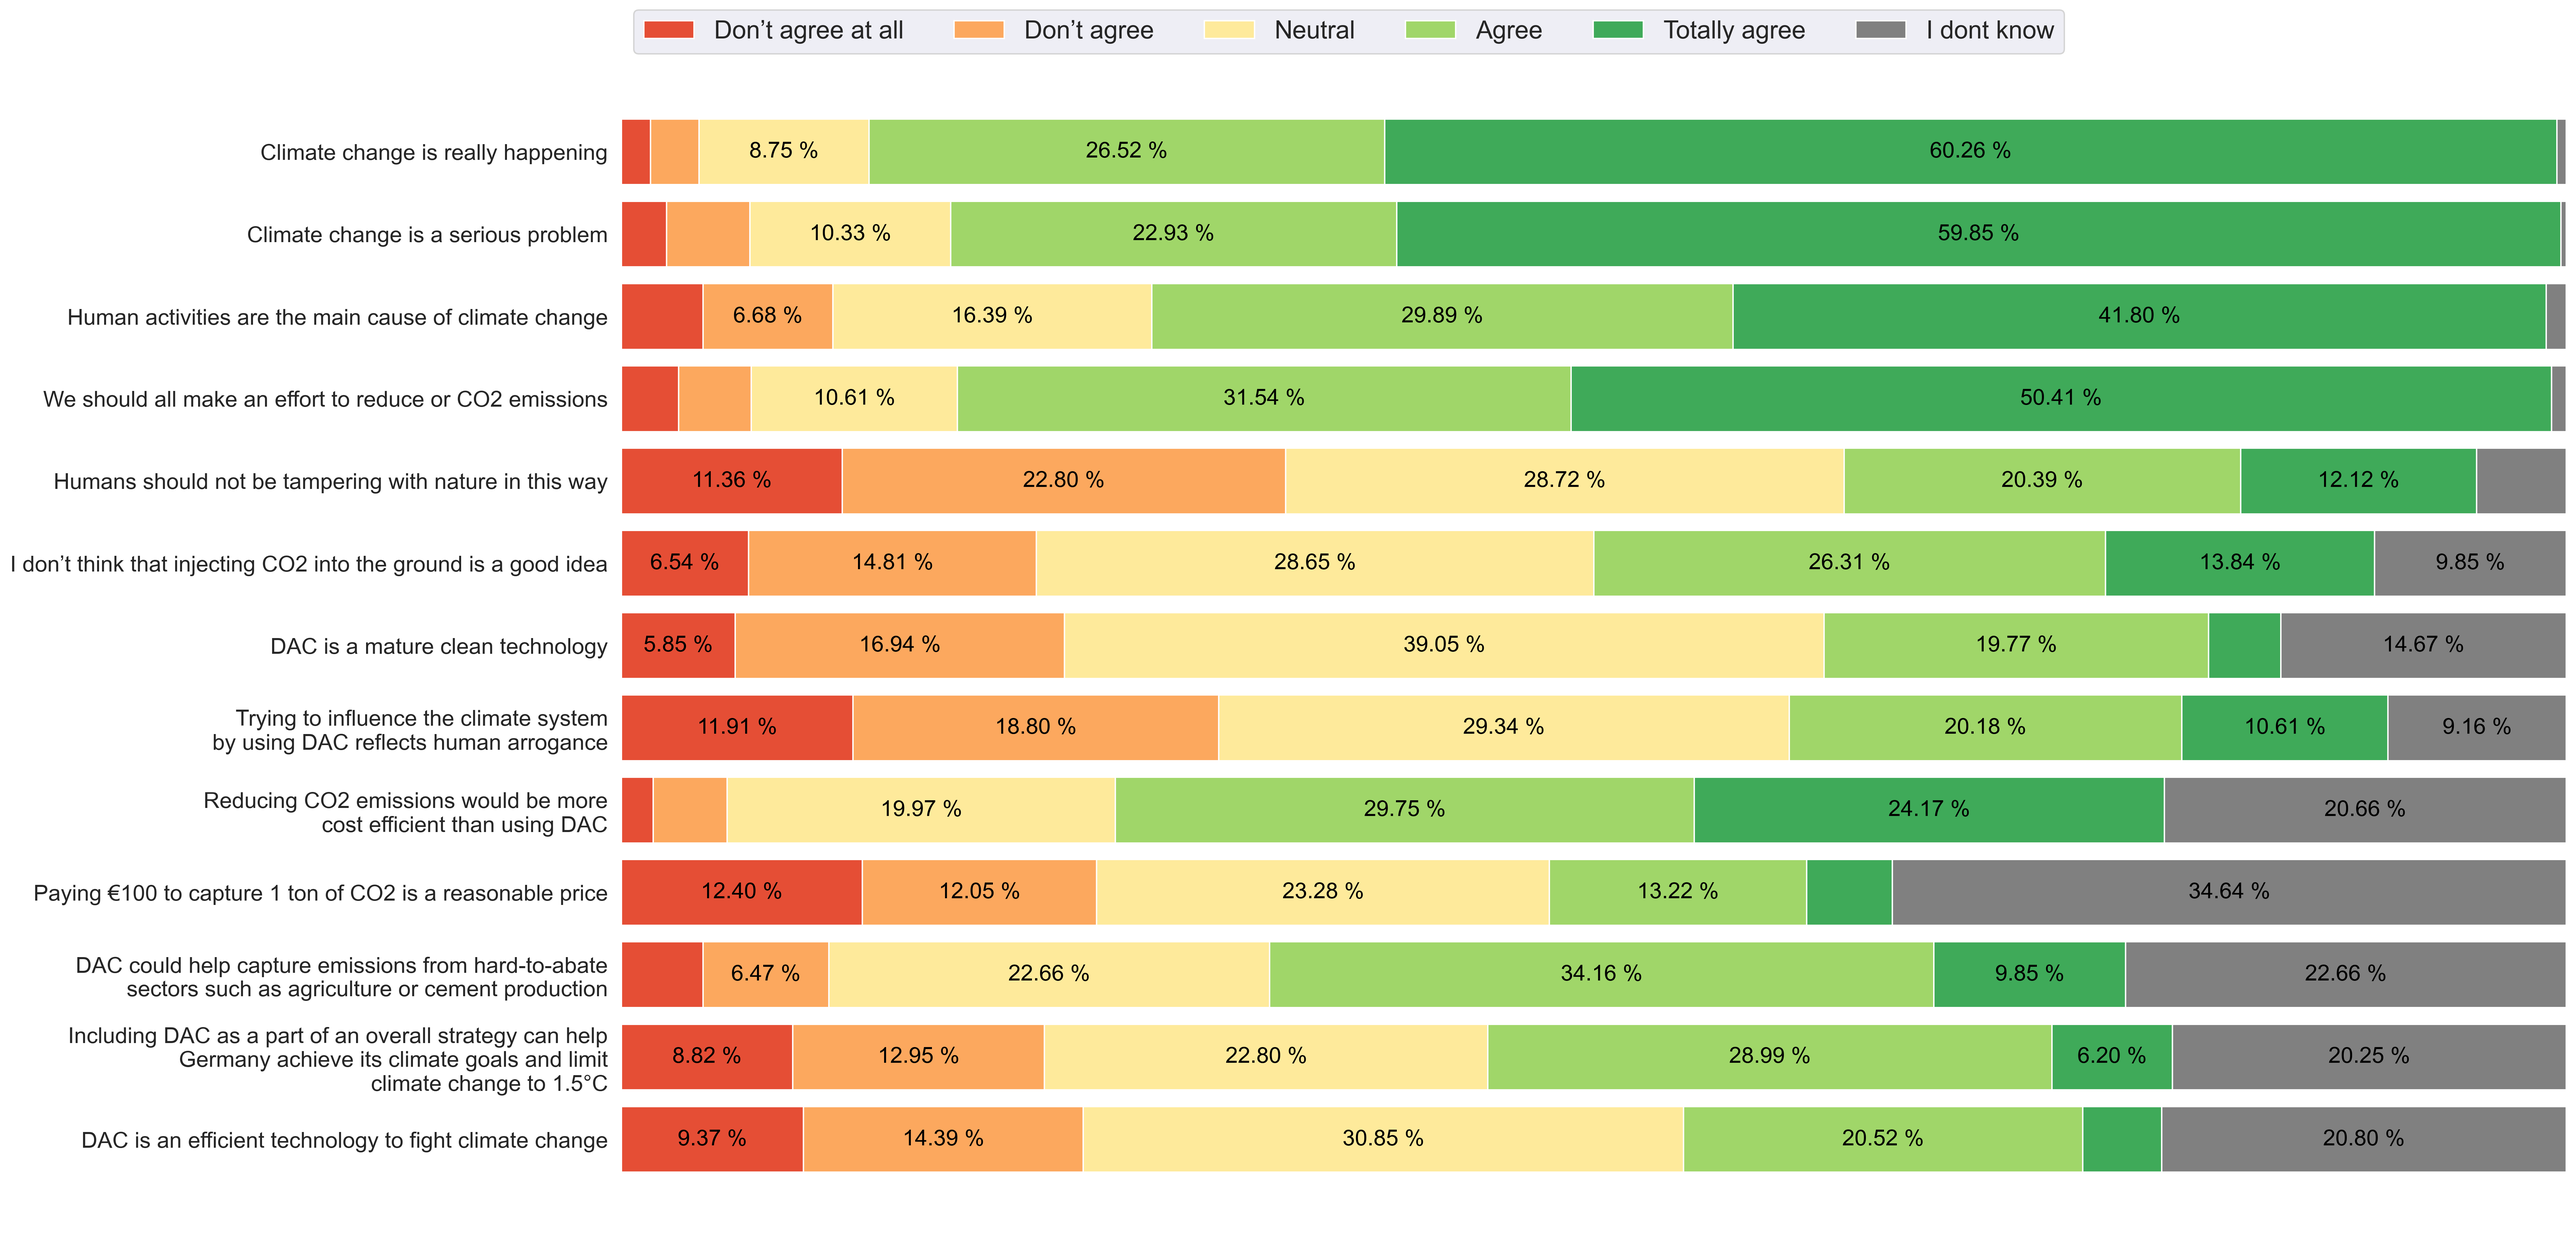
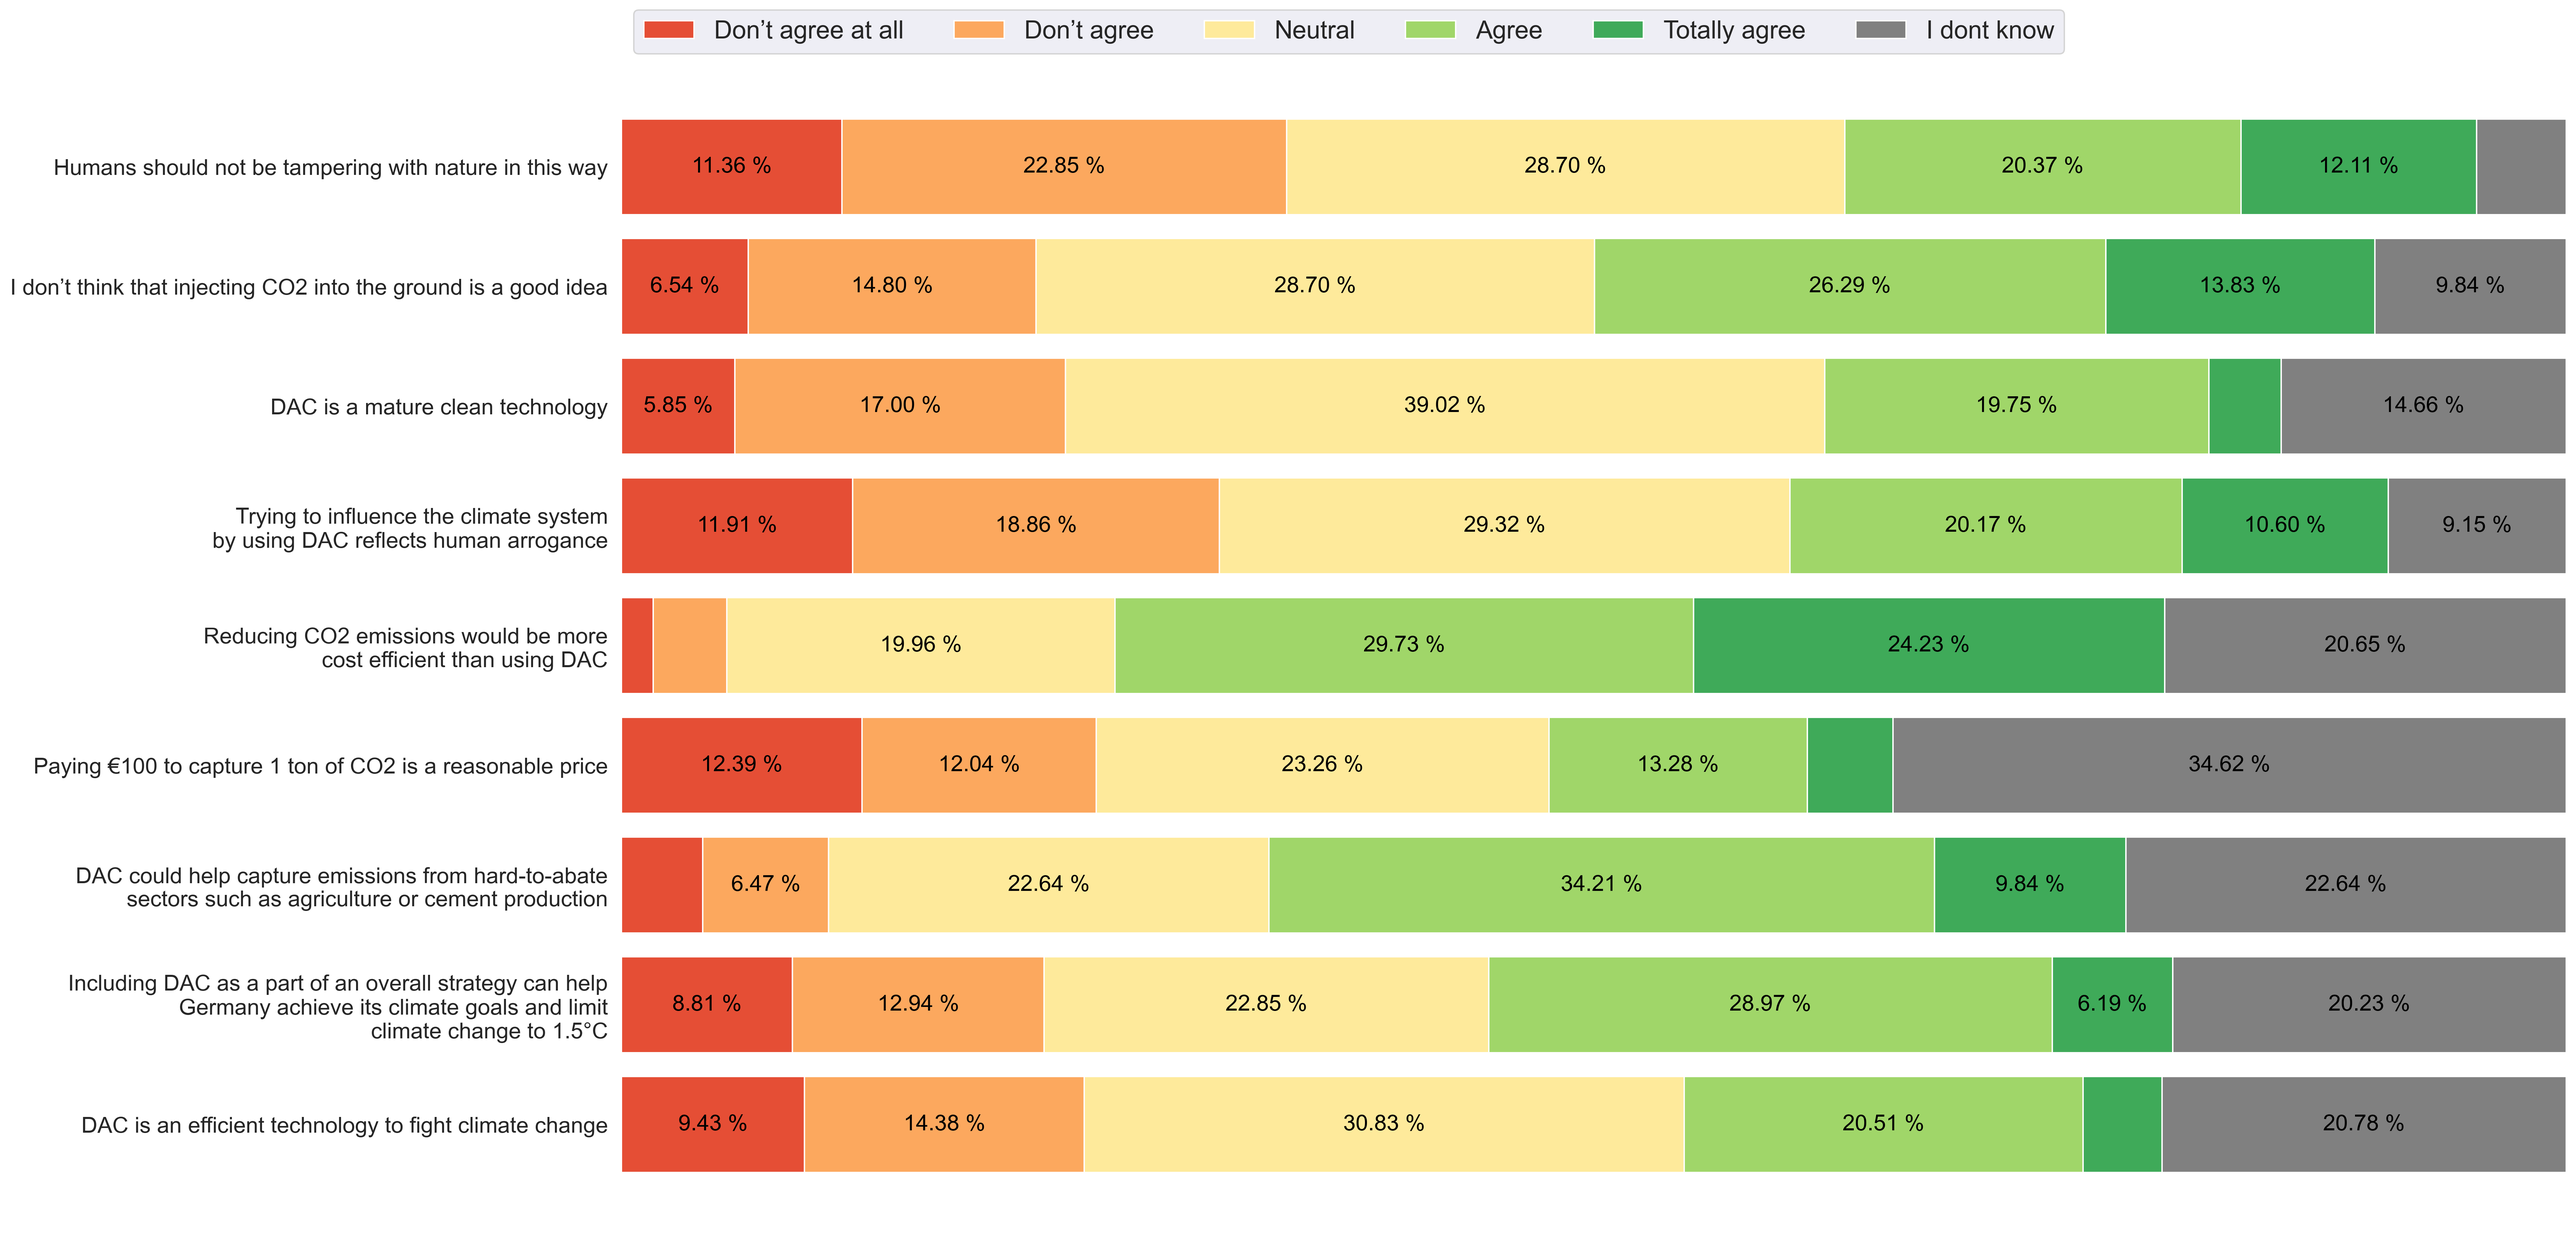
streamline plotting functions

diff --git a/scripts/create-plots.py b/scripts/create-plots.py
@@ -2,6 +2,7 @@ from dacstore.config import agreement_cmap, categories, colors
 from dacstore.dac_analysis import to_results, value_counts
 from dacstore.utils import get_data
 from dacstore.plot import likert_plot
+from dacstore.config import groups_translated
 
 import seaborn as sns  # noqa
 
@@ -11,7 +12,35 @@ sns.set_theme(style="darkgrid")
 dpi = 300
 
 
-def plot_knowledge(fname="figs/knowledge.png"):
+def create_likert_plot(
+    df,
+    fname,
+    group,
+    scale="agreement_en",
+    colors=colors,
+    dpi=300,
+    labels=None,
+    height=None,
+    figsize=None,
+):
+    if isinstance(group, str):
+        group = groups_translated[group]
+    cols = df[group].dropna()
+    category_names = categories[scale]
+    counts = value_counts(cols)
+    results = to_results(counts, category_names, labels=labels)
+    likert_plot(
+        results,
+        category_names,
+        colors=colors,
+        fname=fname,
+        dpi=dpi,
+        height=height,
+        figsize=figsize,
+    )
+
+
+def plot_knowledge(df, fname="figs/knowledge.png"):
     # shorts = {
     #     "DAC Awareness": "Haben Sie schon von Technologien zur Entnahme von Kohlendioxid (CO2) aus der Luft (auf Englisch Direct Air Capture (DAC)) gehört?",
     #     "DAC Knowledge": "Wie gut sind ihre Kenntnisse dieser Technologien?",
@@ -53,73 +82,39 @@ def plot_knowledge(fname="figs/knowledge.png"):
     likert_plot(results, category_names, fname=fname, dpi=dpi)
 
 
-def plot_support(fname):
+def plot_support(df, fname):
     acceptance = [
         "Initial DAC Support",
         "Final DAC Support",
         "Initial Storage Support",
         "Final Storage Support",
     ]
-
-    acceptance = df[acceptance].dropna()
-
-    category_names = categories["support_en"]
-    counts = value_counts(acceptance)
-    results = to_results(counts, category_names)
-
-    likert_plot(results, category_names, colors=colors, fname=fname, dpi=dpi)
-
-
-def plot_trust(fname):
-    trust = [
-        "Politicians",
-        "Industry",
-        "Science",
-        "United Nations (UN)",
-        "European Union",
-        "Environmental Protection Organizations and NGOs",
-        "Media",
-    ]
-    trust = df[trust].dropna()
-
-    category_names = categories["trust_en"]
-    counts = value_counts(trust)
-    results = to_results(
-        counts,
-        category_names,
-        labels={
-            "Environmental Protection Organizations and NGOs": "Environmental Protection\n Organizations and NGOs"
-        },
+    create_likert_plot(
+        df, fname, acceptance, scale="support_en", colors=colors, dpi=dpi
     )
 
-    colors = agreement_cmap
-    likert_plot(results, category_names, colors=colors, fname=fname, dpi=dpi)
-    # plt.show()
+
+def plot_climate_change(df, fname):
+    create_likert_plot(
+        df, fname, "Climate Change", scale="agreement_en", colors=colors, dpi=dpi
+    )
 
 
-def plot_risk(fname):
-    risk = [
-        "DAC is a safe technology",
-        "CO2-Storage is a safe technology",
-        "CO2-Storage could cause earthquakes",
-        "CO2-Storage could cause explosions",
-        "CO2-Storage could cause toxic leaks",
-    ]
-    risk = df[risk].dropna()
-
-    category_names = categories["agreement_en"]
-    counts = value_counts(risk)
-
-    results = to_results(counts, category_names)
-    likert_plot(results, category_names, colors=agreement_cmap, fname=fname, dpi=dpi)
+def plot_trust(df, fname):
+    labels = {
+        "Environmental Protection Organizations and NGOs": "Environmental Protection\n Organizations and NGOs"
+    }
+    create_likert_plot(
+        df, fname, "Trust", scale="trust_en", colors=colors, dpi=dpi, labels=labels
+    )
 
 
-def plot_aux(fname):
+def plot_risk(df, fname):
+    create_likert_plot(df, fname, "Risk", scale="agreement_en", colors=colors, dpi=dpi)
+
+
+def plot_aux(df, fname):
     bonus = [
-        "Climate change is really happening",
-        "Climate change is a serious problem",
-        "Human activities are the main cause of climate change",
-        "We should all make an effort to reduce or CO2 emissions",
         "Humans should not be tampering with nature in this way",
         "I don’t think that injecting CO2 into the ground is a good idea",
         "DAC is a mature clean technology",
@@ -130,28 +125,26 @@ def plot_aux(fname):
         "Including DAC as a part of an overall strategy can help Germany achieve its climate goals and limit climate change to 1.5°C",
         "DAC is an efficient technology to fight climate change",
     ]
-
-    category_names = categories["agreement_en"]
     labels = {
         "Reducing CO2 emissions would be more cost efficient than using DAC": "Reducing CO2 emissions would be more\n cost efficient than using DAC",
         "DAC could help capture emissions from hard-to-abate sectors such as agriculture or cement production": "DAC could help capture emissions from hard-to-abate\n sectors such as agriculture or cement production",
         "Trying to influence the climate system by using DAC reflects human arrogance": "Trying to influence the climate system\n by using DAC reflects human arrogance",
         "Including DAC as a part of an overall strategy can help Germany achieve its climate goals and limit climate change to 1.5°C": "Including DAC as a part of an overall strategy can help\n Germany achieve its climate goals and limit\n climate change to 1.5°C",
     }
-    counts = value_counts(df[bonus].dropna())
-    results = to_results(counts, category_names, labels=labels)
-    likert_plot(
-        results,
-        category_names,
+    create_likert_plot(
+        df,
+        fname,
+        bonus,
+        scale="agreement_en",
         colors=agreement_cmap,
-        fname=fname,
+        dpi=dpi,
+        labels=labels,
         height=0.8,
         figsize=(25, 15),
-        dpi=dpi,
     )
 
 
-def plot_socio_demographics(fname):
+def plot_socio_demographics(df, fname):
     """plot distribution of gender and age"""
     socio_demo = df.groupby(["Age", "Gender"]).Age.count().unstack()
     ax = socio_demo.plot(
@@ -179,9 +172,10 @@ if __name__ == "__main__":
         source="./data/data.csv", drop=False, translate=True, drop_invalid=True
     )
     print(f"creating plots from {len(df)} valid responses...")
-    plot_knowledge("figs/knowledge.png")
-    plot_support("figs/support.png")
-    plot_trust("figs/trust.png")
-    plot_risk("figs/risk.png")
-    plot_aux("figs/aux.png")
-    plot_socio_demographics("figs/socio_demographic.png")
+    plot_knowledge(df, "figs/knowledge.png")
+    plot_support(df, "figs/support.png")
+    plot_trust(df, "figs/trust.png")
+    plot_risk(df, "figs/risk.png")
+    plot_aux(df, "figs/aux.png")
+    plot_climate_change(df, "figs/climate_change.png")
+    plot_socio_demographics(df, "figs/socio_demographic.png")

diff --git a/dacstore/plot.py b/dacstore/plot.py
@@ -13,8 +13,8 @@ def likert_plot(
     category_names,
     colors=None,
     limit=5.0,
-    height=0.8,
-    figsize=(25, 5),
+    height=None,
+    figsize=None,
     fname=None,
     dpi=300,
 ):
@@ -28,6 +28,10 @@ def likert_plot(
     category_names : list of str
         The category labels.
     """
+    if height is None:
+        height = 0.8
+    if figsize is None:
+        figsize = (25, 5)
     labels = list(results.keys())
     data = np.array(list(results.values()))
     data_cum = data.cumsum(axis=1)
